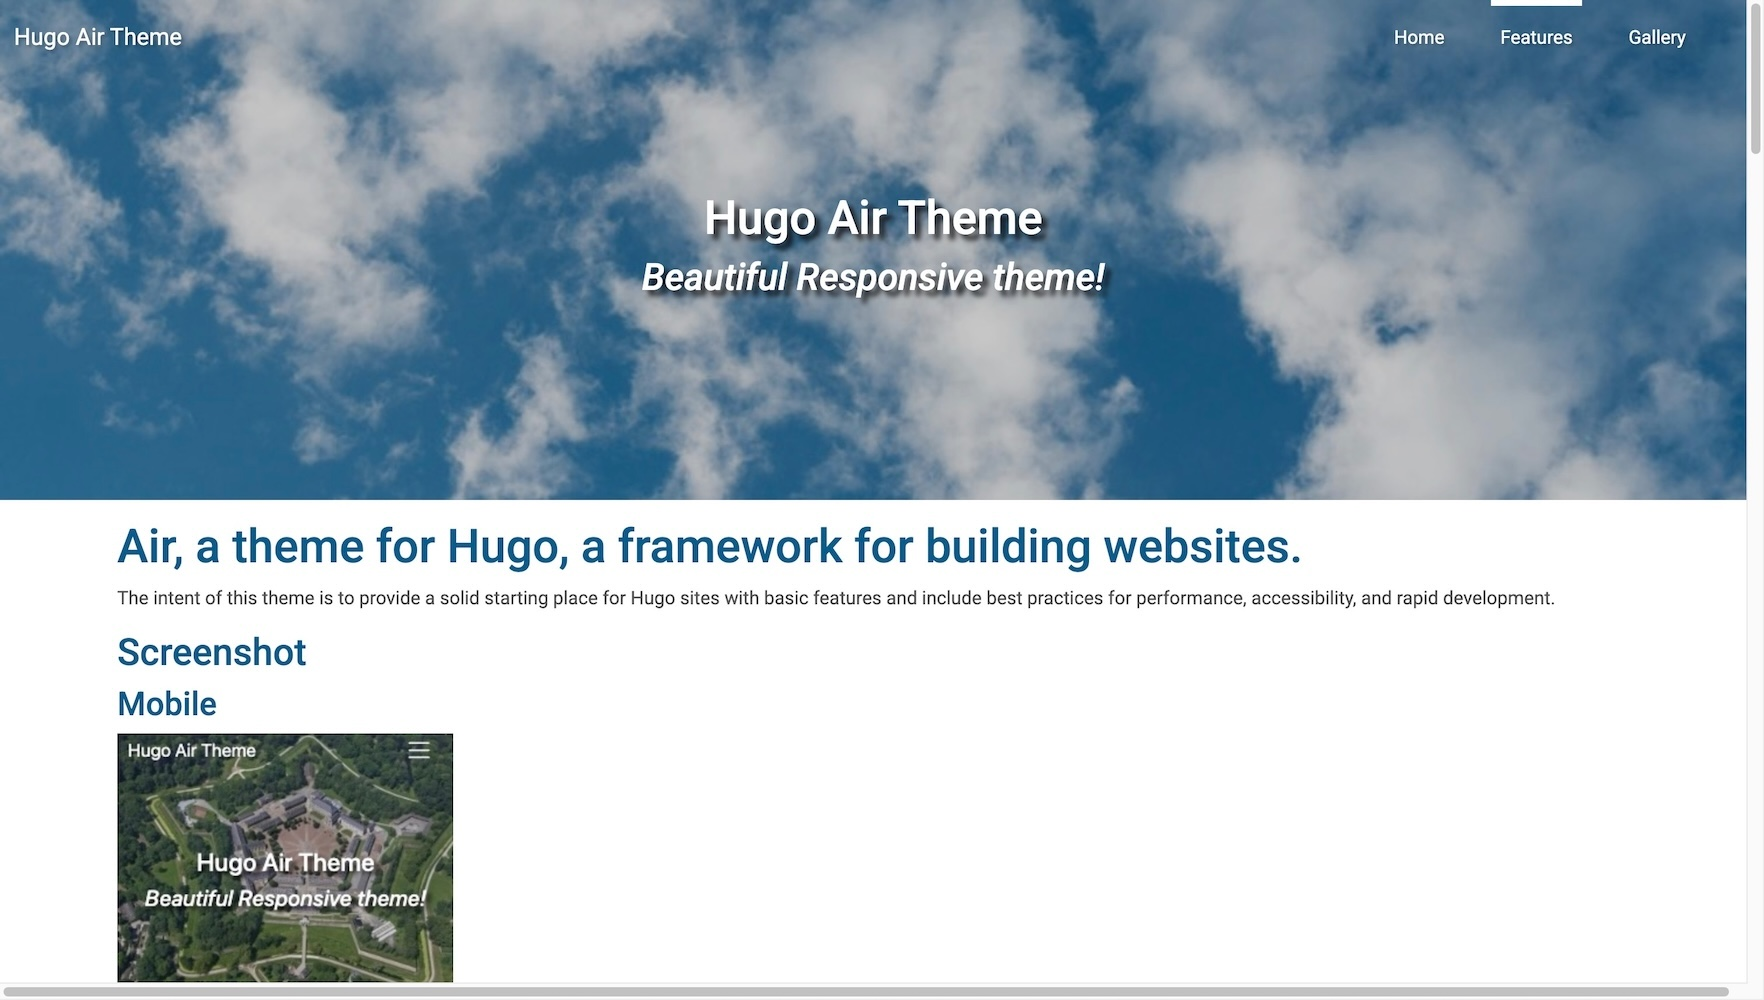
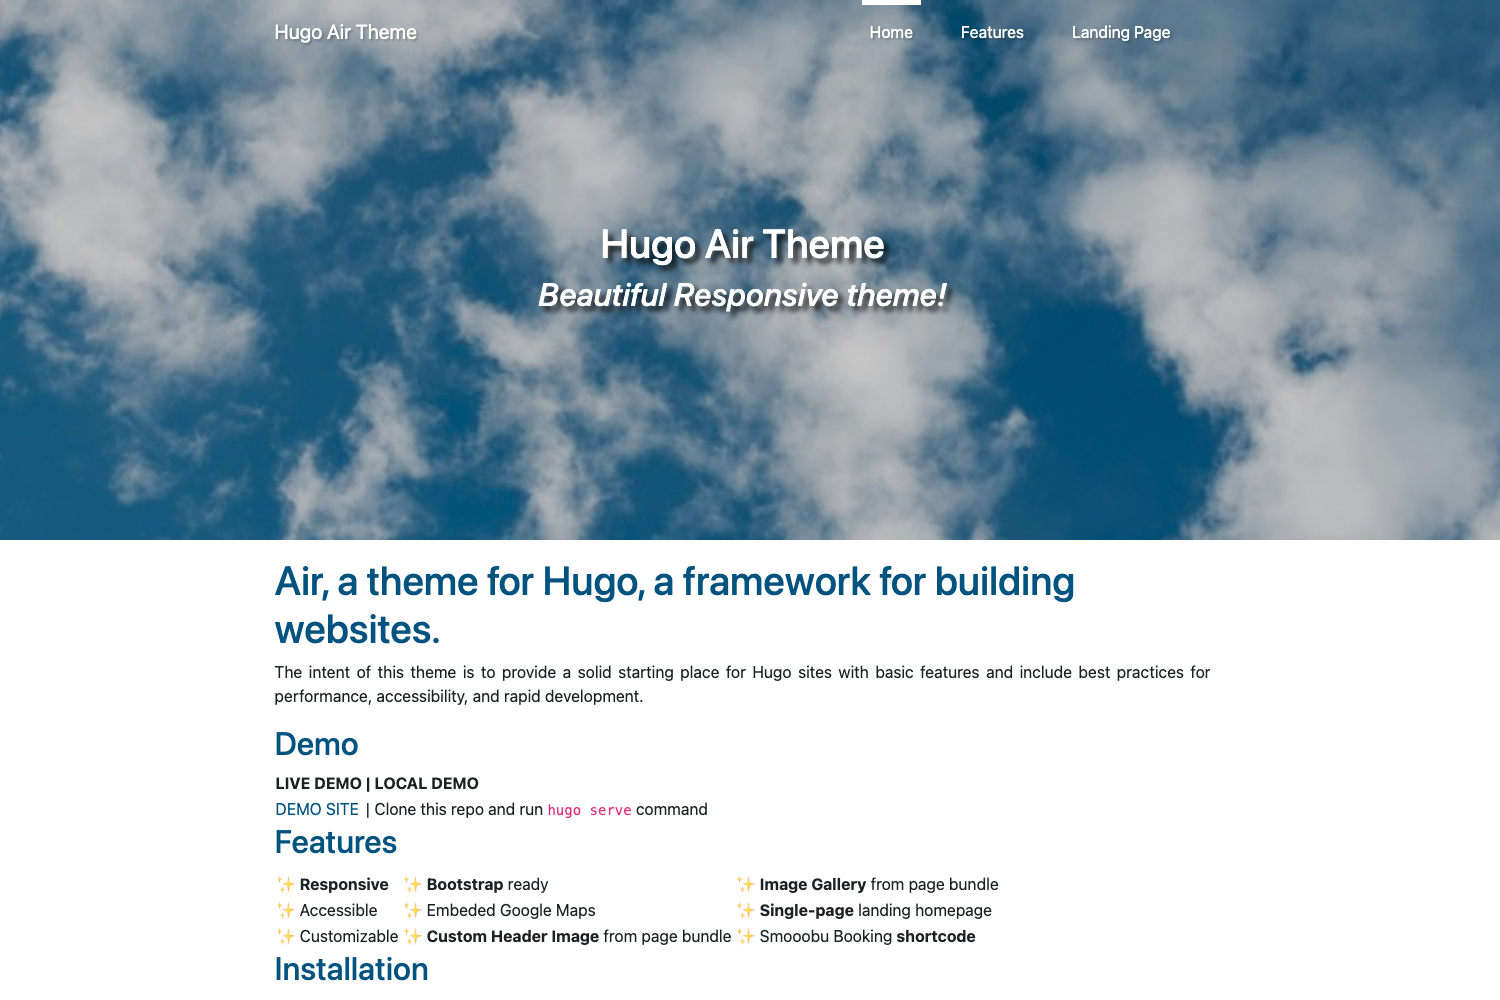
fix images aspect ratio for themes.gohugo.io/themes/hugo-air/

diff --git a/content/_index.md b/content/_index.md
@@ -9,34 +9,19 @@ gmaps: true
 
 The intent of this theme is to provide a solid starting place for Hugo sites with basic features and include best practices for performance, accessibility, and rapid development.
 
-## Screenshot
-
- ### Mobile
-{{< img "img/hugo-air-theme-mobile.jpg" "Screenshot of mobile version" >}}
-
- 
- ### Desktop
-{{< img "img/hugo-air-theme-desktop.jpg" "Screenshot of mobile version" >}}
-
-
 ## Demo
 
-## Live Demo
-[DEMO SITE](https://francoiducat.github.io/hugo-air/)
+| LIVE DEMO                                                 	|   	| \| 	|   	| LOCAL DEMO                                     	|
+|-----------------------------------------------------------	|---	|----	|---	|------------------------------------------------	|
+| [francoiducat.github.io/hugo-air](https://francoiducat.github.io/hugo-air) 	|   	| \| 	|   	| Clone this repo and run  `hugo serve`  command 	|
 
-## Local Demo
-Clone this repo and run `hugo serve` command
 
 ## Features
-
-- Responsive
-- Accessible
-- Boostrap
-- Customizable main color
-- Responsive Embeded Google Maps
-- Responsive Header Image from page bundle
-- Image Gallery from page bundle available as **shortcode** or template **page**. (instagram or masonry style)
-- Smooobu shortcode
+|                	|   	|                                 	|   	|                                  	|
+|----------------	|---	|---------------------------------	|---	|----------------------------------	|
+| ✨ **Responsive**   	|   	| ✨ **Bootstrap** ready               	|   	| ✨ **Image Gallery** from page bundle 	|
+| ✨ Accessible   	|   	| ✨ Embeded Google Maps           	|   	| ✨ **Single-page** landing homepage   	|
+| ✨ Customizable 	|   	| ✨ **Custom Header Image** from page bundle 	|   	| ✨ Smooobu Booking **shortcode**      	|
 
 
 ## Installation
@@ -179,3 +164,50 @@ Automatically loaded from the `static/img` folder.
 When listing pages/posts, it displays boostrap cards with a thumbnail image.  
 By default it uses the card image from  `static/img/card.jpg`
 Customize the card image by adding one image called `featured-image.jpg` or `card.jpg ` in your page bundle.  
+
+### Single-page landing homepage
+
+Add pages to a folder. These page will render as a single-page.
+
+Example with this page bundle:
+
+```yaml
+content/
+└── landing-page/
+    └── page-1/                 # Page Bundle
+        ├── featured-image.jpg  # 
+        ├── index.md            # Page 1
+    ├── _index.md               # File that calls the landing-page type
+    ├── page-2.md               # Page 2
+    ├── page-3.md               # Page 3
+    ├── page-4.md               # Page 4
+    └── page-5.md               # Page 5
+```
+
+Edit your  `content/landing-page/_index.md` to add `type: landing-page`
+
+```yaml 
+---
+title: Landing Page
+catchline: Awesome One Page Landing Page
+type: landing-page
+---
+```
+
+Add a weight to each page to render them by weight ✨: 
+
+```yaml
+---
+title: Page 1
+weight: 10
+---
+Content of Page 1
+```
+
+## Screenshot
+
+ ### Mobile
+{{< img "img/hugo-air-theme-mobile.jpg" "Screenshot of mobile version" >}}
+ 
+ ### Desktop
+{{< img "img/hugo-air-theme-desktop.jpg" "Screenshot of mobile version" >}}

diff --git a/README.md b/README.md
@@ -2,33 +2,19 @@
 
 The intent of this theme is to provide a solid starting place for Hugo sites with basic features and include best practices for performance, accessibility, and rapid development.
 
-## Screenshot
-
- ### Mobile
-![screenshot](https://francoiducat.github.io/hugo-air/img/hugo-air-theme-mobile.jpg)
- 
- ### Desktop
-![screenshot](https://francoiducat.github.io/hugo-air/img/hugo-air-theme-desktop.jpg)
-
 ## Demo
 
-## Live Demo
-[DEMO SITE](https://francoiducat.github.io/hugo-air/)
+| LIVE DEMO                                                 	|   	| \| 	|   	| LOCAL DEMO                                     	|
+|-----------------------------------------------------------	|---	|----	|---	|------------------------------------------------	|
+| [francoiducat.github.io/hugo-air](https://francoiducat.github.io/hugo-air) 	|   	| \| 	|   	| Clone this repo and run  `hugo serve`  command 	|
 
-## Local Demo
-Clone this repo and run `hugo serve` command
 
 ## Features
-
-- Responsive
-- Single-page landing homepage
-- Accessible
-- Boostrap
-- Customizable main color
-- Responsive Embeded Google Maps
-- Responsive Header Image from page bundle
-- Image Gallery from page bundle available as **shortcode** or template page. (instagram or masonry style)
-- Smooobu shortcode
+|                	|   	|                                 	|   	|                                  	|
+|----------------	|---	|---------------------------------	|---	|----------------------------------	|
+| ✨ **Responsive**   	|   	| ✨ **Bootstrap** ready               	|   	| ✨ **Image Gallery** from page bundle 	|
+| ✨ Accessible   	|   	| ✨ Embeded Google Maps           	|   	| ✨ **Single-page** landing homepage   	|
+| ✨ Customizable 	|   	| ✨ **Custom Header Image** from page bundle 	|   	| ✨ Smooobu Booking **shortcode**      	|
 
 ## Installation
 
@@ -215,3 +201,11 @@ weight: 10
 ---
 Content of Page 1
 ```
+
+## Screenshot
+
+ ### Mobile
+![screenshot](https://francoiducat.github.io/hugo-air/img/hugo-air-theme-mobile.jpg)
+ 
+ ### Desktop
+![screenshot](https://francoiducat.github.io/hugo-air/img/hugo-air-theme-desktop.jpg)
